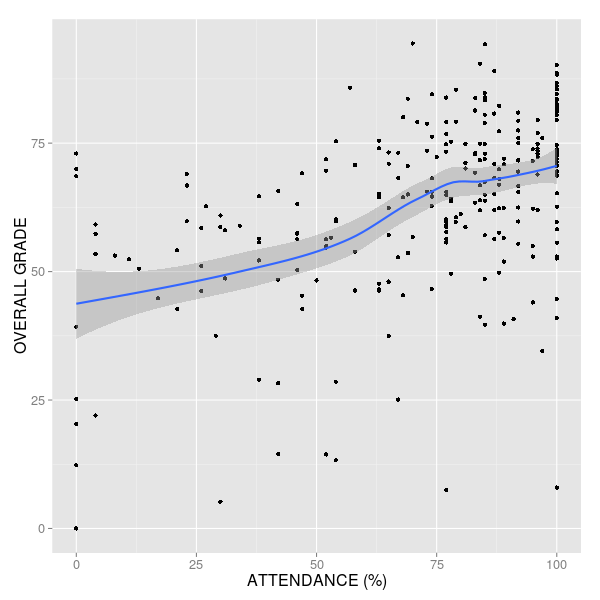
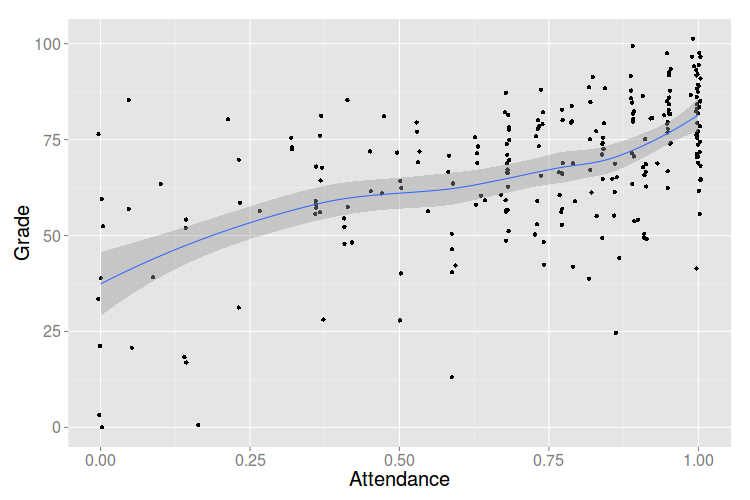
362 intro

diff --git a/presentations/ee362_intro.html b/presentations/ee362_intro.html
@@ -25,23 +25,23 @@ class: center, middle
 
 ## Ozan Keysan
 
-[ozan.keysan.me](http://ozan.keysan.me)
+## [keysan.me](http://keysan.me)
 
-Office: EA-304 <span class="meta">&#8226;</span> Tel: 210 2319
+### Office: EA-304 <span class="meta">&#8226;</span> Tel: 210 2319
 
 ---
 # About the Course
 
 ## Lecture Hours:
 
-### - Monday:	12:40-14:30 EA209
-### - Wednesday: 09:40-10:30 EA207
-### - Office Hour: 10:40-11:30
+### - Monday:	13:40-15:30 EA312
+### - Wednesday: 10:40-11:30 EA310
+### - Office Hour: Wednesday 11:40-12:30
 --
 
-### Number of students dropped by in the office hour:
+## Number of students dropped by in the office hour =
 --
-0
+ 0
 
 ---
 # About the Course
@@ -50,15 +50,21 @@ Office: EA-304 <span class="meta">&#8226;</span> Tel: 210 2319
 ## ODTU-Class: Assignments, Solved Problems
 
 ---
-## Grading:
-### - Two Midterms: 20% (Each)
-### - Final: 30%
-### - Laboratory: 20% (Attending to all lab sessions are compulsory)
-### - Homeworks: 5%
-### - Attendance: 5%
---
+# Grading:
+## - Two Midterms: 20% (Each)
+## - Final: 30%
+## - Laboratory: 20% (Attending to all lab sessions are compulsory)
+## - Homeworks: 5%
+## - Attendance: 5%
+---
 
-## Course Coordinator: Deniz Bulgan (C-114)
+# Course Coordinator
+
+
+# Mesut Ugur
+# Office: C-114 (or A-404)
+# Email: ugurm@metu.edu.tr
+
 ---
 # About the Course
 
@@ -68,18 +74,20 @@ Office: EA-304 <span class="meta">&#8226;</span> Tel: 210 2319
 ---
 # Lecturers
 
-## Muammer Ermiş (Section 1-4), Office: C-104
-## Ahmet Rumeli (Section 2), Office: E-117
-## Bülent Ertan (Section 3), Office: C-101
-## Ozan Keysan (Section 5), Office:D-131
+## Section-1: **Ozan Keysan**, Office:EA-304
+## Section-2: **Ahmet Rumeli**, Office: E-117
+## Section-3: **Bülent Ertan**, Office: C-101
+## Section-4: **Muammer Ermiş**, Office: E-103
+
 
 ---
 # Course Outline
 
-### - AC Power
-### - Three Phase Systems
-### - Synchronous Machines
-### - Induction Machines
+#- AC Power
+#- Three Phase Systems
+#- Induction Machines
+#- Synchronous Machines
+
 ---
 # ABET Skill Set
 
@@ -113,17 +121,31 @@ Office: EA-304 <span class="meta">&#8226;</span> Tel: 210 2319
 
 # A Statistical Review of EE361
 
-![](/files/ee361_final_grades_histogram.png)
+![](../files/ee361_final_grades_histogram.png)
+---
+
+# A Statistical Review of EE361
+
+![](../files/ee361_overall_grades_histogram.png)
 ---
 
 # Attend at least 75% of the classes
 
-<img src="/files/ee361_attendance_vs_grade.png" alt="Drawing" style="width: 500px;"/>
+<img src="../files/ee361_attendance_vs_grade.png" alt="Drawing" style="width: 750px;"/>
+---
 
+# Sec-3 Attendance
+
+<img src="../files/ee361_attendance_vs_grade_Sec3.png" alt="Drawing" style="width: 750px;"/>
 ---
 # Start studying from the early weeks
 
-<img src="/files/ee361_mt1_overall_grades.png" alt="Drawing" style="width: 700px;"/>
+<img src="../files/ee361_mt1_overall_grades.png" alt="Drawing" style="width: 700px;"/>
+
+---
+## Note: Correlation does not imply causation
+
+<img src="http://i1143.photobucket.com/albums/n629/saskoutrider/enhanced-buzz-25466-1365534595-12.jpg" alt="Drawing" style="width: 700px;"/>
 
 ---
 ## You can download this presentation from: [keysan.me/ee362](http://keysan.me/ee362)

diff --git a/ee362.md b/ee362.md
@@ -5,16 +5,16 @@ permalink: /ee362/index.html
 ---
 
 ## Lecture Hours (Section-5)
-- Monday:	12:40-14:30 EA209
-- Wednesday: 09:40-10:30 EA207
-- Office Hour: Wednesday 10:40-11:30
+- Monday:	13:40-15:30 EA312
+- Wednesday: 10:40-11:30 EA310
+- Office Hour: Wednesday 11:40-12:30
 
 ## Presentations
 
 You can download PDF versions of all presentations from [this link](https://www.dropbox.com/s/27owgopll991p83/ee362_presentations.zip?dl=1). Note that, PDF versions can be slightly out-dated, so please check the html versions for the newest version.
 
 
-- Week#1 (16/02): [Introduction](/presentations/ee362_intro.html)
+- Week#1 (22/02): [Introduction](/presentations/ee362_intro.html)
 - Week#1 (18/02): [Review](/presentations/ee362_review.html)
 - Week#2 (23/02): [Induction in a coil- Rotating MMF](/presentations/ee362_induction.html)
 - Week#2 (25/02): [Pole-pitch, harmonics, electrical angle](/presentations/ee362_pole_pitch.html)

diff --git a/index.md b/index.md
@@ -3,7 +3,7 @@ layout: home
 title: Ozan Keysan
 ---
 
-**Courses for Fall 2015: <span class="meta">&#8226;</span> [EE361](/ee361) <span class="meta">&#8226;</span>  [EE281](/ee281)**
+**Courses for Spring 2015: <span class="meta">&#8226;</span> [EE362](/ee362) <span class="meta">&#8226;</span>  [EE564](/ee564)**
 
 <!---
 **[STAR Projects](/star)**
